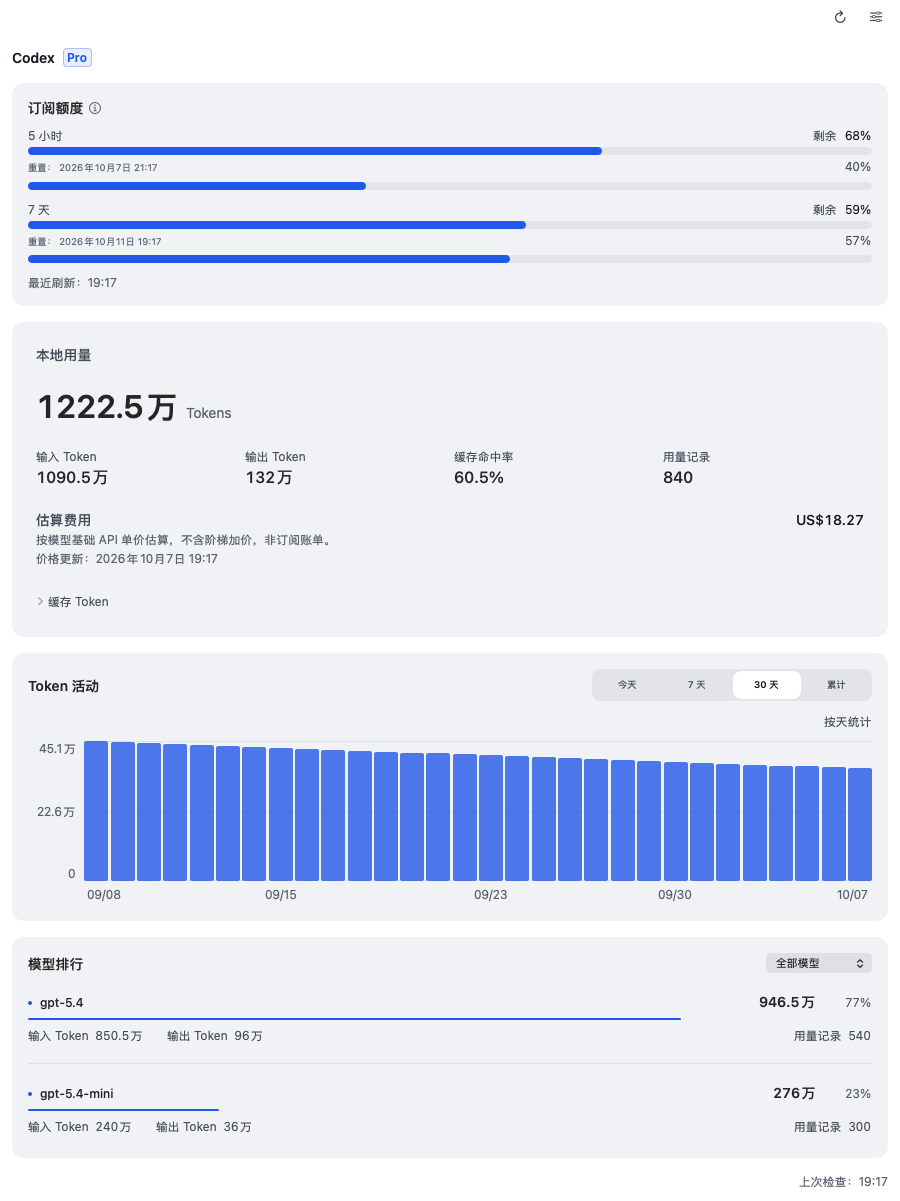
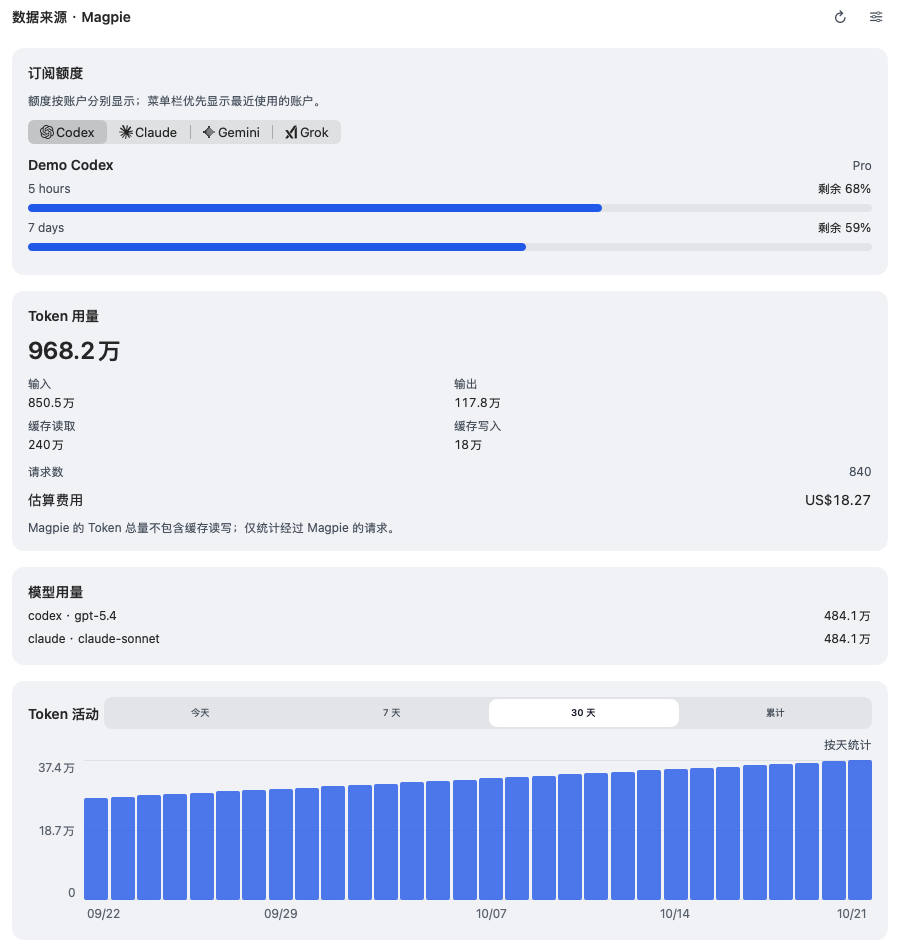
docs(readme): 更新截图并补充布局图库

diff --git a/Packages/XStatsKit/Sources/XStatsUI/Snapshot/SnapshotRenderer.swift b/Packages/XStatsKit/Sources/XStatsUI/Snapshot/SnapshotRenderer.swift
@@ -477,6 +477,11 @@ enum SnapshotRenderer {
       return
     }
 
+    if CommandLine.arguments.contains("--readme-only") {
+      await renderReadme(outputDirectory: outputDirectory)
+      return
+    }
+
     if CommandLine.arguments.contains("--features-only") {
       await renderFeatures(outputDirectory: outputDirectory)
       await renderAudio(outputDirectory: outputDirectory, demo: true)
@@ -1294,6 +1299,153 @@ enum SnapshotRenderer {
     } catch { reportFailure(outputDirectory, error: error) }
   }
 
+  /// 公开图库：仅用一次本机只读采样取得指标结构，覆盖全部展示数值后停止读取。
+  /// AI、音频与无线详情均为虚构数据，不启动监控、读取个人日志或调用硬件控制。
+  private static func renderReadme(outputDirectory: URL) async {
+    let suite = "XStats.readmeSnapshot.\(UUID())"
+    guard let defaults = UserDefaults(suiteName: suite) else {
+      reportFailure(outputDirectory, error: CocoaError(.coderInvalidValue))
+      return
+    }
+    defer { defaults.removePersistentDomain(forName: suite) }
+    let settings = AppSettings(defaults: defaults)
+    settings.language = L10n.language
+    settings.historyEnabled = false
+    settings.enabledAlerts = []
+    settings.publicIPLookup = false
+    settings.probeEnabled = false
+    settings.menuBarItems = [.cpu, .memory, .network, .disk, .aiUsage, .audio]
+    settings.setMenuBarOrder([.cpu, .memory, .network, .disk, .aiUsage, .audio])
+    settings.aiUsageEnabled = true
+    settings.aiMenuBarProviders = ["codex", "claude", "gemini", "grok"]
+    settings.aiQuotaSelectedProvider = "codex"
+    settings.customPopoverContentEnabled = true
+    settings.trio.outer = .cpu
+    settings.trio.footer = .aiUsage
+    settings.menuBarStyle = .ring
+    let model = AppModel(
+      settings: settings, historyURL: nil, aiUsageProviders: [], aiQuotaProviders: [],
+      magpieClient: ReadmeMagpieProvider(), networkCacheDefaults: defaults)
+    defer { model.aiUsage.stop() }
+    await model.aiUsage.refresh()
+    await model.aiUsage.selectMagpiePeriod(.monthly)
+    var cpuSampler = CPUSampler()
+    var networkSampler = NetworkSampler()
+    _ = cpuSampler.sample()
+    _ = networkSampler.sample()
+    // CPU 需要两个不同计数周期；连续读取可能没有 tick 增量，不能据此判断采样不可用。
+    try? await Task.sleep(for: .milliseconds(100))
+    var snapshot = MetricsSnapshot()
+    snapshot.cpu = cpuSampler.sample()
+    snapshot.memory = MemorySampler().sample()
+    snapshot.network = networkSampler.sample()
+    guard snapshot.cpu != nil, snapshot.memory != nil, snapshot.network != nil else {
+      reportFailure(outputDirectory, error: CocoaError(.coderInvalidValue))
+      return
+    }
+    snapshot.cpu?.user = 0.18
+    snapshot.cpu?.system = 0.06
+    snapshot.cpu?.total = 0.24
+    snapshot.cpu?.perCore = Array(repeating: 0.24, count: model.store.topology.logicalCores)
+    snapshot.cpu?.loadAverage = [1.2, 1.4, 1.1]
+    snapshot.cpu?.thermalState = .nominal
+    snapshot.memory?.total = 32_000_000_000
+    snapshot.memory?.app = 12_000_000_000
+    snapshot.memory?.wired = 3_000_000_000
+    snapshot.memory?.compressed = 2_000_000_000
+    snapshot.memory?.cached = 5_000_000_000
+    snapshot.memory?.swapUsed = 0
+    snapshot.memory?.swapTotal = 0
+    snapshot.memory?.pressure = .normal
+    snapshot.memory?.uncompressed = 3_000_000_000
+    snapshot.memory?.swapInBytes = 0
+    snapshot.memory?.swapOutBytes = 0
+    snapshot.network?.connection = .wifi(bars: 3)
+    snapshot.network?.downloadBytesPerSecond = 4_200_000
+    snapshot.network?.uploadBytesPerSecond = 820_000
+    snapshot.network?.totalDownloaded = 12_000_000_000
+    snapshot.network?.totalUploaded = 2_400_000_000
+    snapshot.disk = DiskUsage(
+      volumeName: "Macintosh HD", total: 1_000_000_000_000, available: 640_000_000_000)
+    for index in 0..<60 {
+      snapshot.date = Date().addingTimeInterval(Double(index - 59))
+      snapshot.cpu?.total = 0.24 + 0.06 * sin(Double(index) / 6)
+      model.store.apply(snapshot)
+    }
+    let headphones = AudioDeviceInfo(
+      id: 1, uid: "demo.headphones", name: "Studio Headphones", hasOutput: true,
+      outputVolume: 0.65, outputMuted: false, canSetOutputVolume: true, canSetOutputMute: true,
+      bluetoothAddress: "02-00-00-00-00-01")
+    model.audio.showPreview(
+      AudioHardwareSnapshot(devices: [headphones], outputID: 1, inputID: nil, applications: []),
+      volumes: [:], outputs: [:])
+    let wifi = WiFiLink(
+      ssid: "Example Wi-Fi", rssi: -48, noise: -92, transmitRate: 1200,
+      bssid: "02:00:00:00:00:01", bandGHz: 5, channel: 36, channelWidthMHz: 80,
+      phyMode: "802.11ax", security: "WPA3 Personal")
+    settings.wifiDetailsExpanded = true
+    for (name, suffix) in [(NSAppearance.Name.aqua, "light"), (.darkAqua, "dark")] {
+      guard let appearance = NSAppearance(named: name) else { continue }
+      NSApp.appearance = appearance
+      var images: [[NSImage]] = []
+      for layout in MenuBarLayout.allCases {
+        settings.menuBarLayout = layout
+        let row: [NSImage]
+        if layout == .separate {
+          // 独立布局在系统中由多个 NSStatusItem 组成，逐项使用同一原生绘制入口。
+          row = model.drawnMenuBarItems.map { item in
+            MenuBarRenderer.image(
+              reading: MenuBarReading(model: model, items: [item]), items: [item],
+              style: { settings.style(for: $0) }, networkStyle: settings.networkStyle,
+              colorizeHighLoad: settings.colorizeHighLoad, fahrenheit: settings.useFahrenheit,
+              valueOnTop: settings.menuBarValueOnTop, loadSensitivity: settings.loadSensitivity)
+          }
+        } else {
+          row = [MenuBarRenderer.image(for: model)]
+        }
+        images.append(
+          row.map { MenuBarRenderer.preview($0, dark: suffix == "dark", backingScale: 2) })
+      }
+      write(
+        ReadmeMenuBarGallery(images: images).appLanguageEnvironment(),
+        model: model, appearance: appearance,
+        to: outputDirectory.appendingPathComponent("menubar-layouts-\(suffix).png"))
+      settings.menuBarLayout = .combined
+      model.combinedPopoverTab = nil
+      write(
+        CombinedPopoverView().appLanguageEnvironment(), model: model, appearance: appearance,
+        to: outputDirectory.appendingPathComponent("combined-overview-\(suffix).png"))
+      write(
+        AIUsagePage(initialActivityMode: .monthly).frame(width: 900).appLanguageEnvironment(),
+        model: model, appearance: appearance,
+        to: outputDirectory.appendingPathComponent("ai-usage-\(suffix).png"))
+      settings.menuBarLayout = .iconOnly
+      write(
+        VStack(spacing: DS.Space.s4) {
+          Image(
+            nsImage: MenuBarRenderer.preview(
+              MenuBarRenderer.image(for: model), dark: suffix == "dark", backingScale: 2))
+          TrioSettings()
+        }
+        .padding(DS.Space.s4).frame(width: 720).appLanguageEnvironment(),
+        model: model, appearance: appearance,
+        to: outputDirectory.appendingPathComponent("trio-settings-\(suffix).png"))
+      write(
+        VStack(alignment: .leading, spacing: DS.Space.s4) {
+          Text(MenuBarItem.cpu.title).dsFont(.base, weight: .semibold)
+          PopoverSectionPicker(isExpanded: true, item: .cpu)
+        }.padding(DS.Space.s4).frame(width: 600).appLanguageEnvironment(),
+        model: model, appearance: appearance,
+        to: outputDirectory.appendingPathComponent("popover-order-\(suffix).png"))
+      write(
+        SectionCard(title: PopoverSection.networkInterface.title) {
+          WiFiConnectionRows(wifi: wifi)
+        }.padding(DS.Space.s3).frame(width: 360).appLanguageEnvironment(),
+        model: model, appearance: appearance,
+        to: outputDirectory.appendingPathComponent("wifi-details-\(suffix).png"))
+    }
+  }
+
   /// 显示器走查只读信息和 Get VCP 能力，不执行设置写入。
   private static func renderDisplays(outputDirectory: URL) async {
     let suite = "XStats.displaySnapshot.\(UUID())"
@@ -1524,6 +1676,89 @@ enum SnapshotRenderer {
     didFail = true
     FileHandle.standardError.write(
       Data("Snapshot failed: \(url.path): \(error.localizedDescription)\n".utf8))
+  }
+}
+
+/// 菜单栏比较图直接使用真实渲染结果，保持菜单栏图标的实际点尺寸。
+private struct ReadmeMenuBarGallery: View {
+  let images: [[NSImage]]
+
+  var body: some View {
+    VStack(spacing: DS.Space.s3) {
+      ForEach(Array(MenuBarLayout.allCases.enumerated()), id: \.element) { index, layout in
+        HStack(spacing: DS.Space.s4) {
+          Text(layout.title).dsFont(.sm, weight: .semibold).frame(width: 72, alignment: .leading)
+          HStack(spacing: DS.Space.s4) {
+            ForEach(images[index].indices, id: \.self) { imageIndex in
+              Image(nsImage: images[index][imageIndex])
+            }
+          }
+          Spacer(minLength: 0)
+        }
+        .padding(DS.Space.s4)
+        .frame(height: 72)
+        .background(DS.Palette.surface, in: RoundedRectangle(cornerRadius: DS.Radius.md))
+      }
+    }
+    .padding(DS.Space.s4)
+    .frame(width: 760)
+  }
+}
+
+/// 本地虚构 Magpie 响应；不连接 Magpie，也不访问真实账户或凭据。
+private struct ReadmeMagpieProvider: MagpieFetching {
+  func quotas() async throws -> [MagpieQuota] {
+    try JSONDecoder().decode(
+      [MagpieQuota].self,
+      from:
+        Data(
+          """
+          [
+            {"provider":"codex","name":"Demo Codex","kind":"subscription","plan":"Pro","last":true,
+             "windows":[{"name":"5 hours","used":32,"remaining":68},{"name":"7 days","used":41,"remaining":59}]},
+            {"provider":"claude","name":"Demo Claude","kind":"subscription","plan":"Pro",
+             "windows":[{"name":"7 days","used":48,"remaining":52}]},
+            {"provider":"gemini","name":"Demo Gemini","kind":"subscription",
+             "windows":[{"name":"1 day","used":18,"remaining":82}]},
+            {"provider":"grok","name":"Demo Grok","kind":"subscription",
+             "windows":[{"name":"7 days","used":72,"remaining":28}]}
+          ]
+          """.utf8))
+  }
+
+  func usage(period: MagpiePeriod) async throws -> MagpieUsageSummary {
+    let count = period == .daily ? 24 : 30
+    let interval: TimeInterval = period == .daily ? 3600 : 86400
+    let start = Calendar.current.startOfDay(for: Date())
+    let formatter = ISO8601DateFormatter()
+    let series: [[String: Any]] = (0..<count).map { index in
+      [
+        "time": formatter.string(
+          from: start.addingTimeInterval(Double(index - count + 1) * interval)),
+        "input": 240_000 + index * 3000, "output": 32_000 + index * 500,
+      ]
+    }
+    let input = series.reduce(0) { $0 + ($1["input"] as? Int ?? 0) }
+    let output = series.reduce(0) { $0 + ($1["output"] as? Int ?? 0) }
+    let payload: [String: Any] = [
+      "period": period.rawValue, "bucket": period == .daily ? "hour" : "day",
+      "input": input, "output": output, "cache_read": 2_400_000, "cache_write": 180_000,
+      "calls": 840, "cost": 18.27, "series": series,
+      "models": [
+        [
+          "id": "demo.codex", "provider": "codex", "model": "gpt-5.4", "input": input / 2,
+          "output": output / 2,
+        ],
+        [
+          "id": "demo.claude", "provider": "claude", "model": "claude-sonnet",
+          "input": input - input / 2, "output": output - output / 2,
+        ],
+      ],
+    ]
+    let decoder = JSONDecoder()
+    decoder.dateDecodingStrategy = .iso8601
+    return try decoder.decode(
+      MagpieUsageSummary.self, from: JSONSerialization.data(withJSONObject: payload))
   }
 }
 

diff --git a/README.en.md b/README.en.md
@@ -18,7 +18,7 @@ See CPU, memory, network and temperature at a glance, and open the details for t
 
 [简体中文](README.md) · **English** · [日本語](README.ja.md) · [한국어](README.ko.md)
 
-<img src="Assets/readme/menubar-dark.png" width="626" alt="XStats menu bar readings">
+<img src="Assets/readme/menubar-layouts-zh-Hans-dark.png" width="760" alt="XStats menu bar layouts: separate, aggregated and three-in-one">
 
 </div>
 
@@ -41,6 +41,8 @@ The aggregated overview brings metrics together and opens individual details.
   <img src="Assets/readme/combined-overview-zh-Hans-light.png" width="360" alt="Aggregated menu bar overview, light mode">
   <img src="Assets/readme/combined-overview-zh-Hans-dark.png" width="360" alt="Aggregated menu bar overview, dark mode">
 </p>
+
+Menu bar layouts and the status overview use demo data to illustrate different layouts and combinations.
 
 ### Feature activation and menu bar visibility
 
@@ -132,8 +134,17 @@ Optional tools can be enabled as needed. Privileged actions such as fan control 
 <details>
 <summary>More screenshots</summary>
 
-Network connections, AI usage and quotas, history, audio, displays and calendar screenshots use demo data. Core system monitoring screenshots include read-only measurements from this Mac. Hardware capabilities vary by model.
+Menu bar layouts, the status overview, Wi-Fi details, network connections, AI usage and quotas, history, audio, displays and calendar screenshots use demo data. Other system monitoring screenshots include read-only measurements from this Mac. Hardware capabilities vary by model.
 
+<p align="center">
+  <img src="Assets/readme/trio-settings-zh-Hans-light.png" width="720" alt="Three-in-one icon sources and appearance">
+</p>
+<p align="center">
+  <img src="Assets/readme/popover-order-zh-Hans-light.png" width="600" alt="Custom popover sections and ordering">
+</p>
+<p align="center">
+  <img src="Assets/readme/wifi-details-zh-Hans-light.png" width="360" alt="Wi-Fi signal, link and security details">
+</p>
 <p align="center">
   <img src="Assets/readme/thermal-dark.png" width="49%" alt="Temperature and fan control">
   <img src="Assets/readme/keepawake-light.png" width="49%" alt="Keep-awake settings">
@@ -143,8 +154,10 @@ Network connections, AI usage and quotas, history, audio, displays and calendar 
   <img src="Assets/readme/ip-purity-light.png" width="49%" alt="Public IP and purity checks">
 </p>
 <p align="center">
-  <img src="Assets/readme/ai-usage-zh-Hans-light.png" width="49%" alt="AI usage and statistics">
-  <img src="Assets/readme/history-zh-Hans-dark.png" width="49%" alt="History trends">
+  <img src="Assets/readme/ai-usage-zh-Hans-light.png" width="760" alt="Magpie AI usage, service selection and subscription quotas">
+</p>
+<p align="center">
+  <img src="Assets/readme/history-zh-Hans-dark.png" width="760" alt="History trends">
 </p>
 <p align="center">
   <img src="Assets/readme/audio-zh-Hans-light.png" width="49%" alt="Audio and app mixing">
